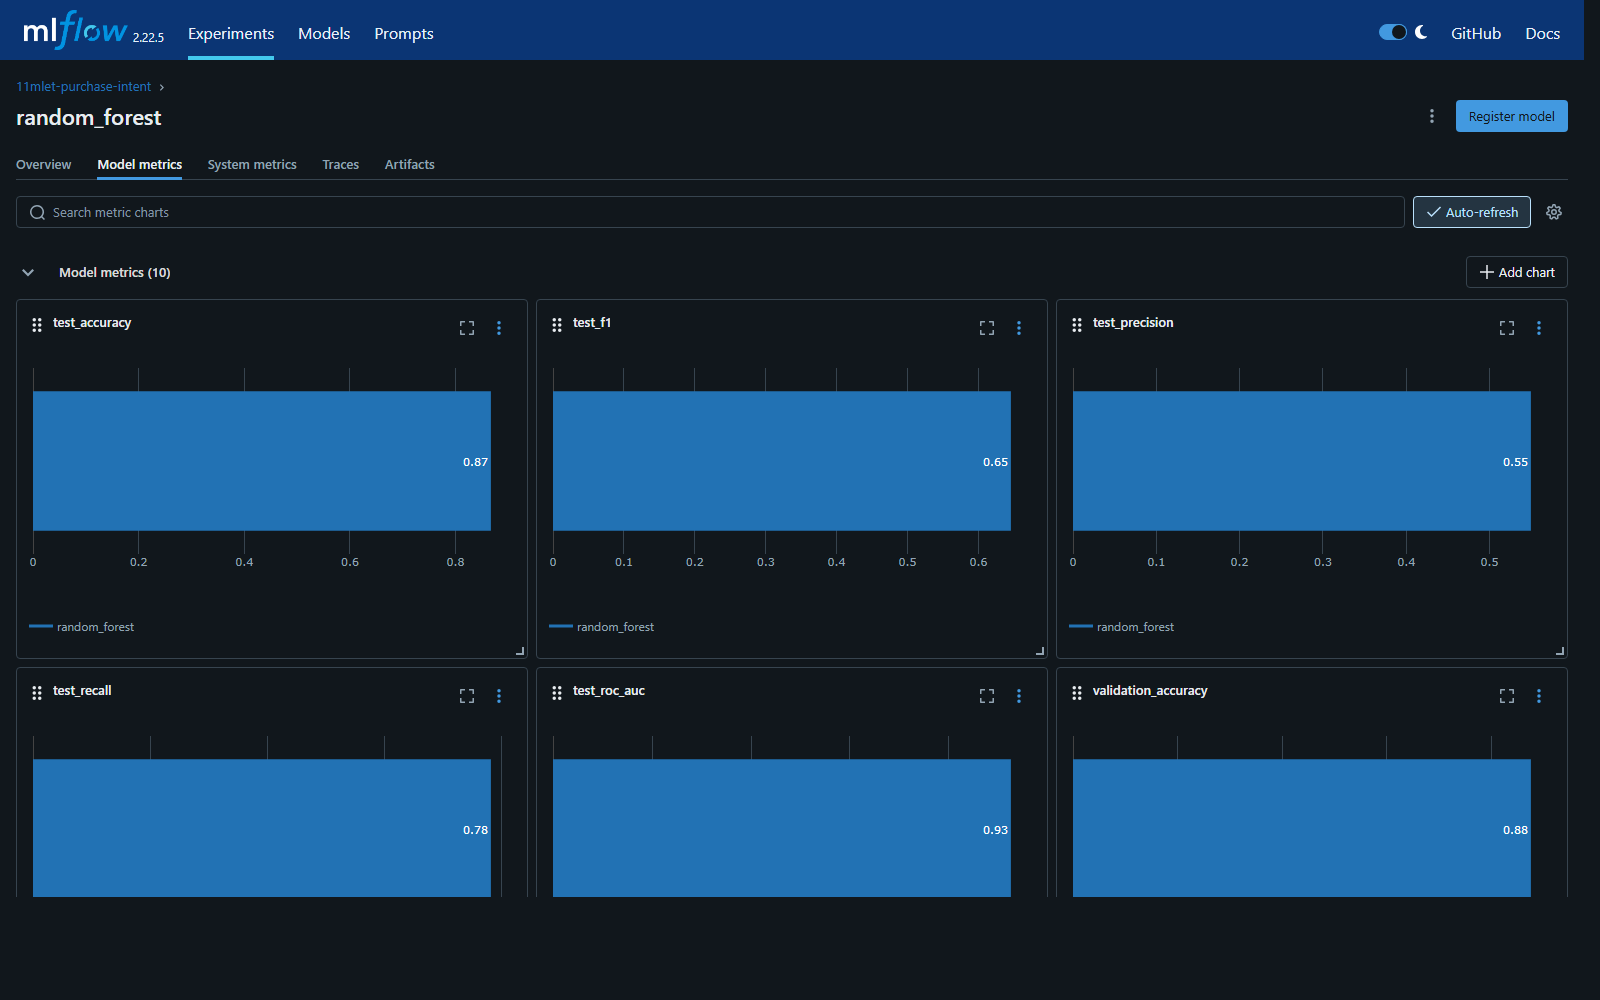
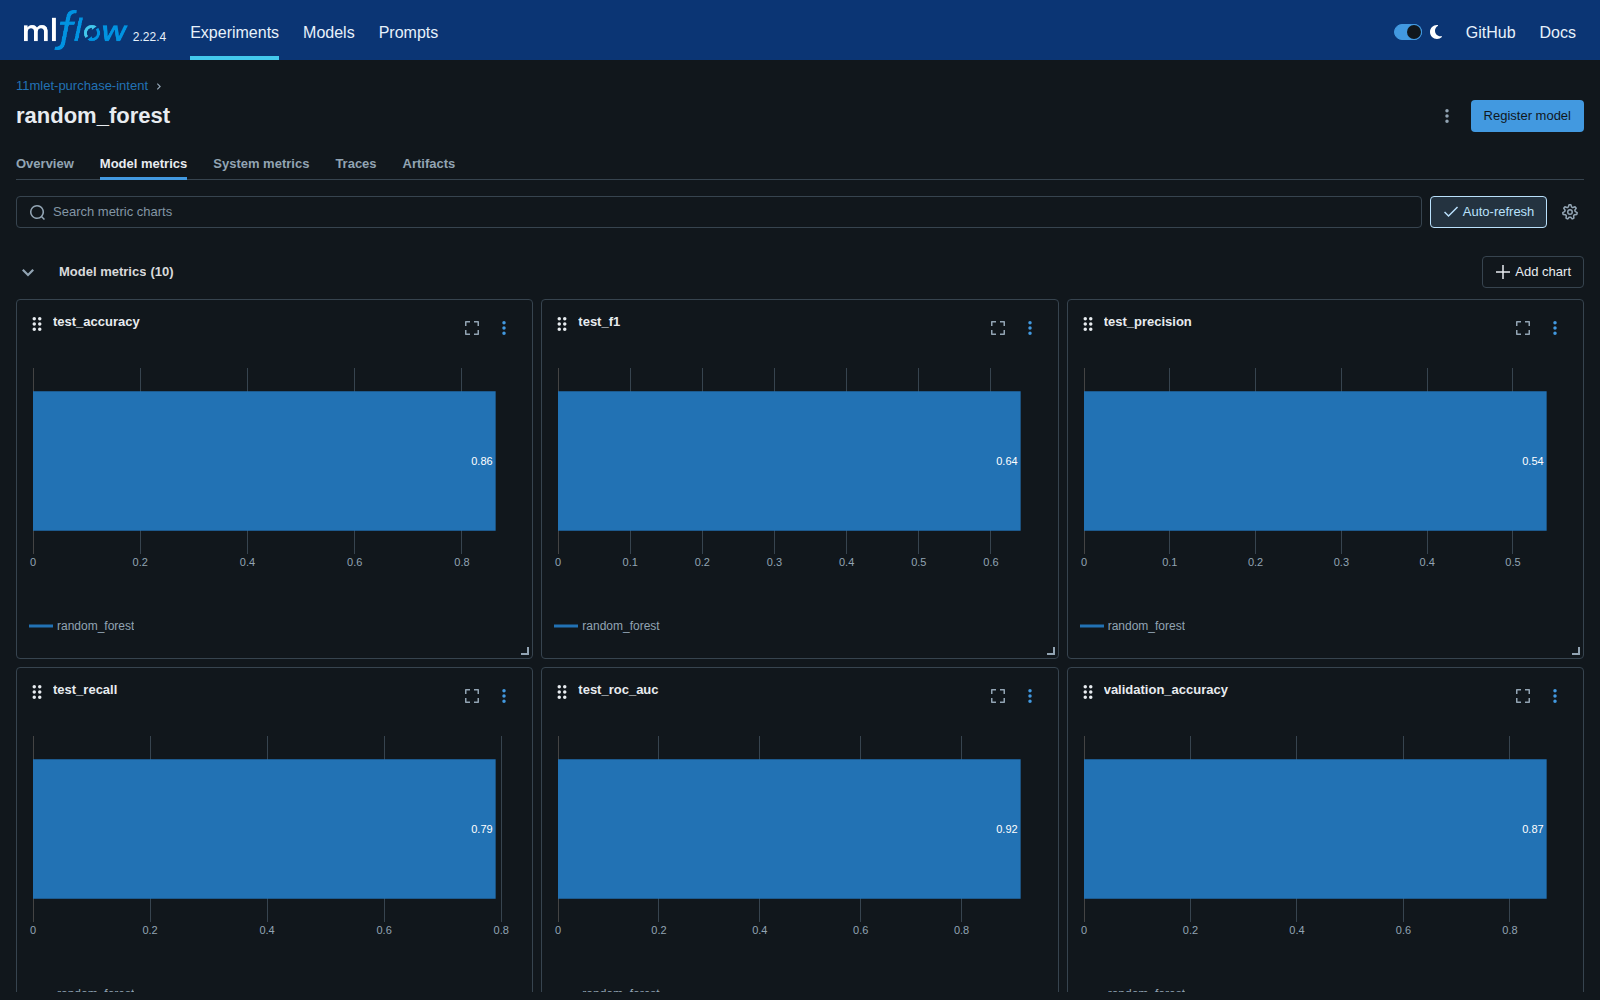
docs: prints do mlflow regenerados pelo ci e aviso da ui fechado antes da captura
Experimento, comparacao e metricas do run campeao vem do artefato do run
43151961575. O print do Model Registry sera trocado apos a proxima execucao.

diff --git a/scripts/capture_mlflow_screenshots.py b/scripts/capture_mlflow_screenshots.py
@@ -61,6 +61,8 @@ def capture(urls: dict[str, str], output_dir: Path) -> None:
             page = context.new_page()
             page.goto(url, wait_until="networkidle")
             page.wait_for_timeout(RENDER_WAIT_MS)
+            page.keyboard.press("Escape")  # fecha avisos de novidade da UI
+            page.wait_for_timeout(1000)
             page.screenshot(path=str(output_dir / f"{name}.png"), full_page=True)
             page.close()
             print(f"{name}.png <- {url}")
